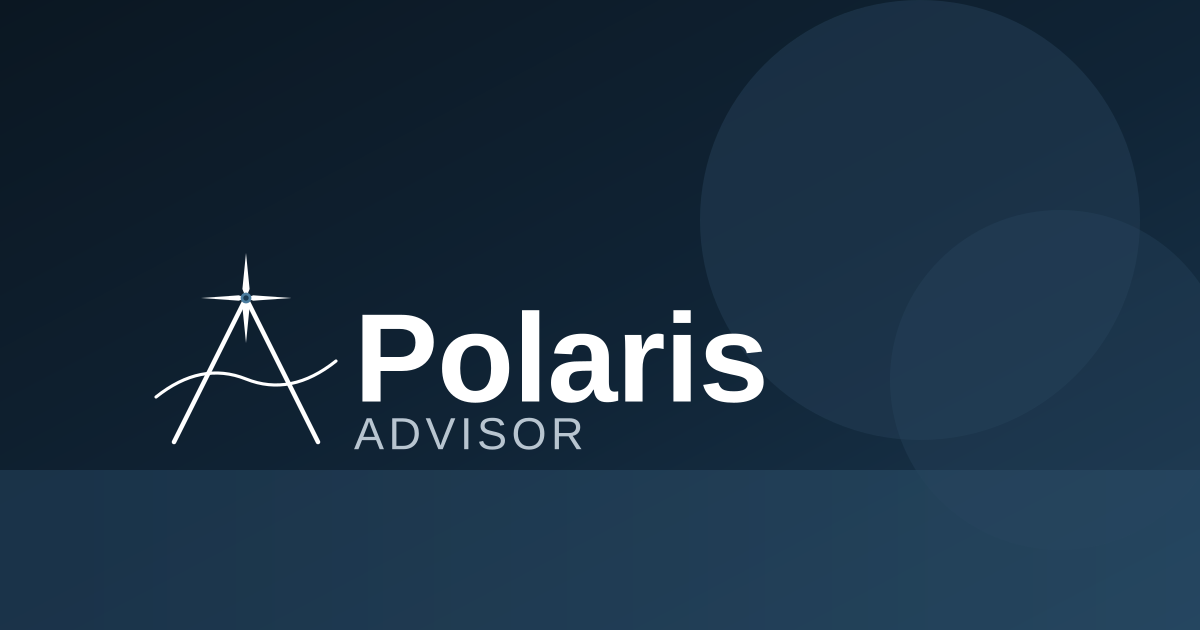
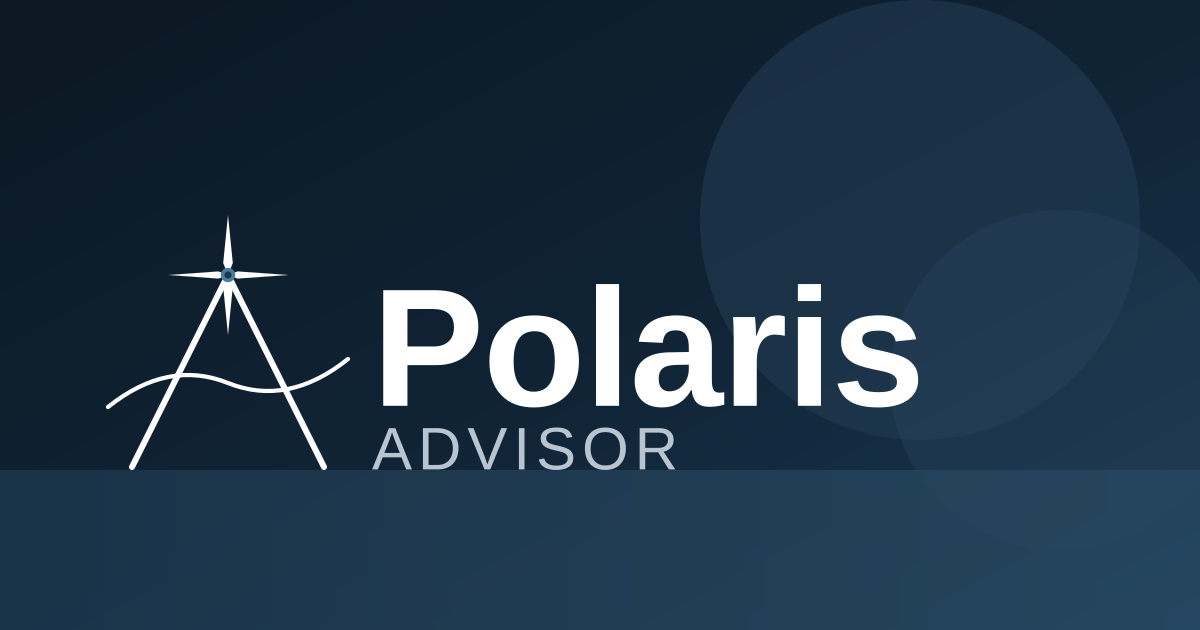
Fine tune linked in OG images.

Changed region(s): [[0.0925, 0.3619, 0.7708, 0.754], [0.0925, 0.6937, 0.1233, 0.754]]

diff --git a/assets/brand-kit/social-media/README.md b/assets/brand-kit/social-media/README.md
@@ -49,8 +49,9 @@ Open Graph images for link sharing
 **Source file (folder-specific):**
 - `og-image/og-image-linkedin-1200x630.svg`
 
-**Required export:**
-- `og-image-linkedin-1200x630.png` - LinkedIn OG size (1200×630)
+**Required exports:**
+- `og-image-linkedin-1200x630.png` - LinkedIn OG size (dark)
+- `og-image-linkedin-1200x630-light.png` - LinkedIn OG size (light)
 
 **Use for:** Website meta tags, LinkedIn/Twitter/Facebook link previews
 **Design tip:** Center logo on colored or gradient background

diff --git a/assets/brand-kit/EXPORTS.md b/assets/brand-kit/EXPORTS.md
@@ -47,7 +47,8 @@ All PNG files generated from baseline SVG sources.
 - ❌ `cover-linkedin-1584x396-dark.png` - missing (baseline dark export)
 
 ### OG Image (1 file)
-- ✅ `og-image-linkedin-1200x630.png` (63K) - Open Graph standard
+- ✅ `og-image-linkedin-1200x630.png` (63K) - LinkedIn OG (dark)
+- ✅ `og-image-linkedin-1200x630-light.png` (58K) - LinkedIn OG (light)
 
 ## Email Signature (5 files)
 - ❌ `email-logo-150h.png` - missing
